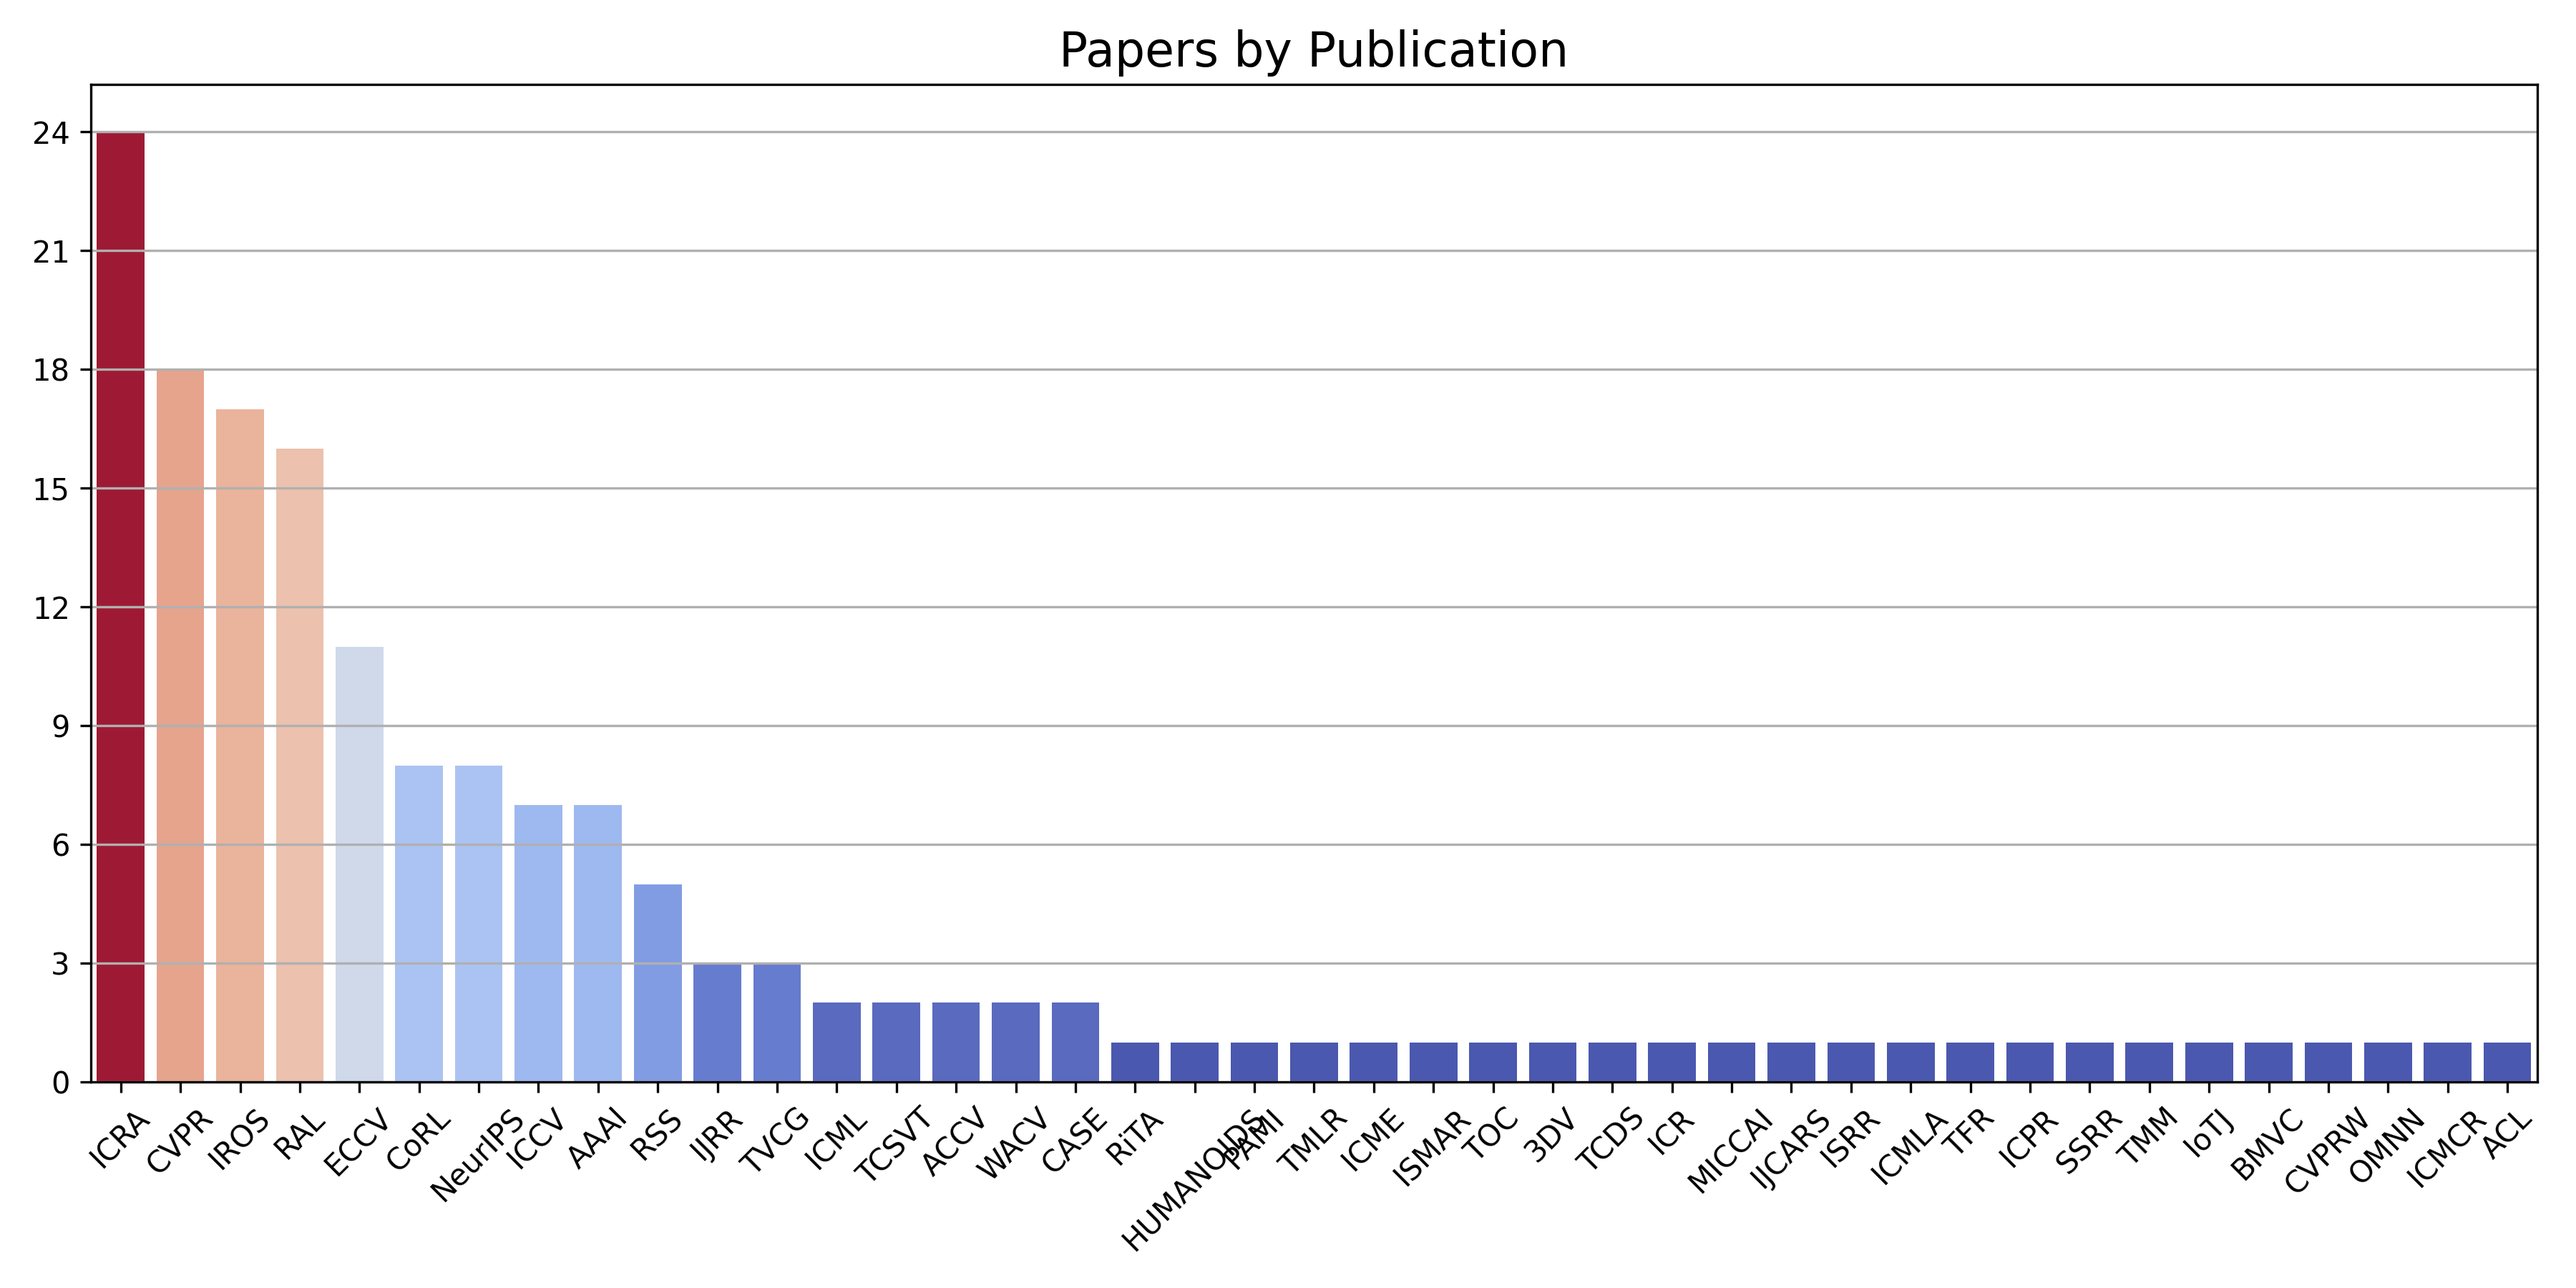
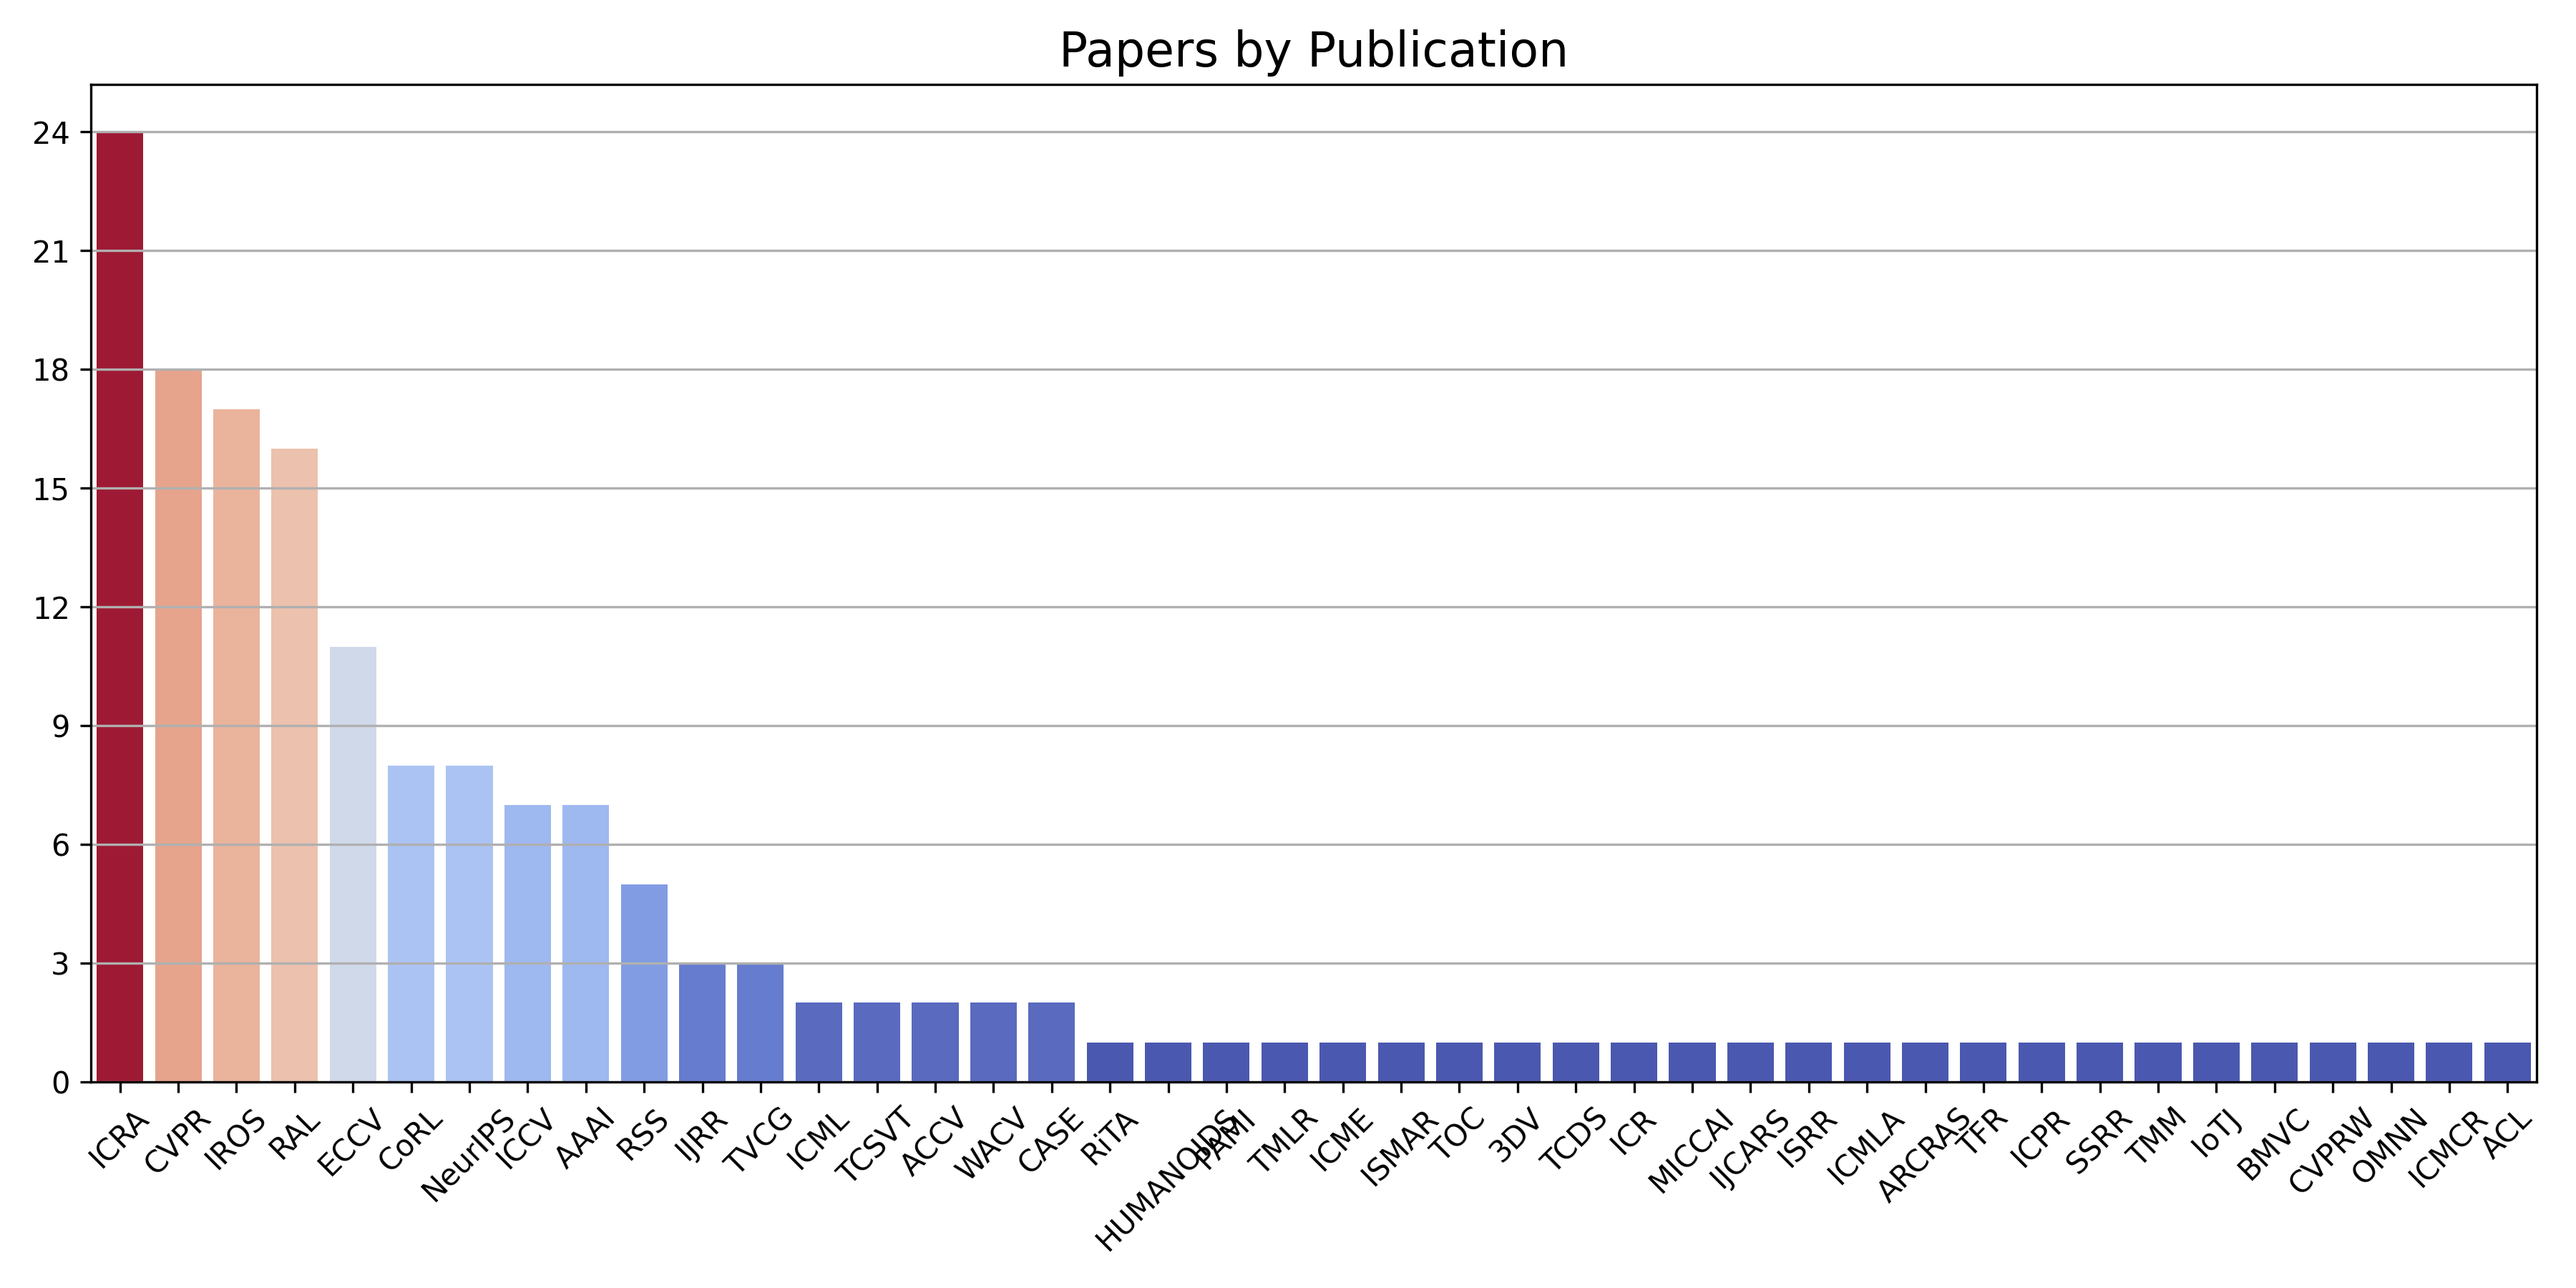
auto: update README from papers/

Changed region(s): [[0.0311, 0.3422, 0.9644, 0.9644]]

diff --git a/README.md b/README.md
@@ -2,7 +2,7 @@
 
 A curated list of papers on 3D Scene Graphs (3DSGs), covering generation and applications such as autonomous navigation, robotic manipulation, scene understanding, path planning, and multi-robot collaboration.
 
-This repository accompanies the survey paper **["3D Scene Graphs: Open Challenges and Future Directions"](https://arxiv.org/abs/2606.19383)**, a comprehensive review of the 3DSG literature. It also contains the source code for the companion website at [3dscenegraphs.com](https://3dscenegraphs.com). The paper database lives in the [`papers/`](papers) folder (one JSON file per paper) and drives both this README and the website. To add or edit a paper, open a PR adding or modifying a file in [`papers/`](papers) (see [contributing.md](contributing.md) for the field format).
+This repository accompanies the survey paper **["3D Scene Graphs: Open Challenges and Future Directions"](https://doi.org/10.1146/annurev-control-031025-014243)**, published in the *Annual Review of Control, Robotics, and Autonomous Systems* ([arXiv](https://arxiv.org/abs/2606.19383)), a comprehensive review of the 3DSG literature. It also contains the source code for the companion website at [3dscenegraphs.com](https://3dscenegraphs.com). The paper database lives in the [`papers/`](papers) folder (one JSON file per paper) and drives both this README and the website. To add or edit a paper, open a PR adding or modifying a file in [`papers/`](papers) (see [contributing.md](contributing.md) for the field format).
 
 ## 📑 Contents
 - [3D Scene Understanding](#3d-scene-understanding) 🏛
@@ -521,7 +521,7 @@ This repository accompanies the survey paper **["3D Scene Graphs: Open Challenge
 | 2026-01 | SSRR25        | [Semantic Enrichment of CAD-Based Industrial Environments via Scene Graphs for Simulation and Reasoning](https://arxiv.org/abs/2601.06415)                                                                                                           | Tohoku              | -                                                                                                        |
 | 2026-02 | TVCG26        | [SceneLinker: Compositional 3D Scene Generation via Semantic Scene Graph from RGB Sequences](https://arxiv.org/abs/2602.02974)                                                                                                                       | KAIST               | [project](https://scenelinker2026.github.io)                                                             |
 | 2026-03 | CVPR26        | [ReLaGS: Relational Language Gaussian Splatting](https://arxiv.org/abs/2603.17605)                                                                                                                                                                   | DFKI                | [project](https://dfki-av.github.io/ReLaGS/)                                                             |
-| 2026-06 | arXiv26       | [3D Scene Graphs: Open Challenges and Future Directions](https://arxiv.org/abs/2606.19383)                                                                                                                                                           | UniStuttgart        | [project](https://3dscenegraphs.com), [github](https://github.com/DennisRotondi/awesome-3D-scene-graphs) | 
+| 2026-06 | ARCRAS26      | [3D Scene Graphs: Open Challenges and Future Directions](https://arxiv.org/abs/2606.19383)                                                                                                                                                           | UniStuttgart        | [project](https://3dscenegraphs.com), [github](https://github.com/DennisRotondi/awesome-3D-scene-graphs) | 
 
 ## Statistics
 ![papers by year](plots/papers_by_year.png)
